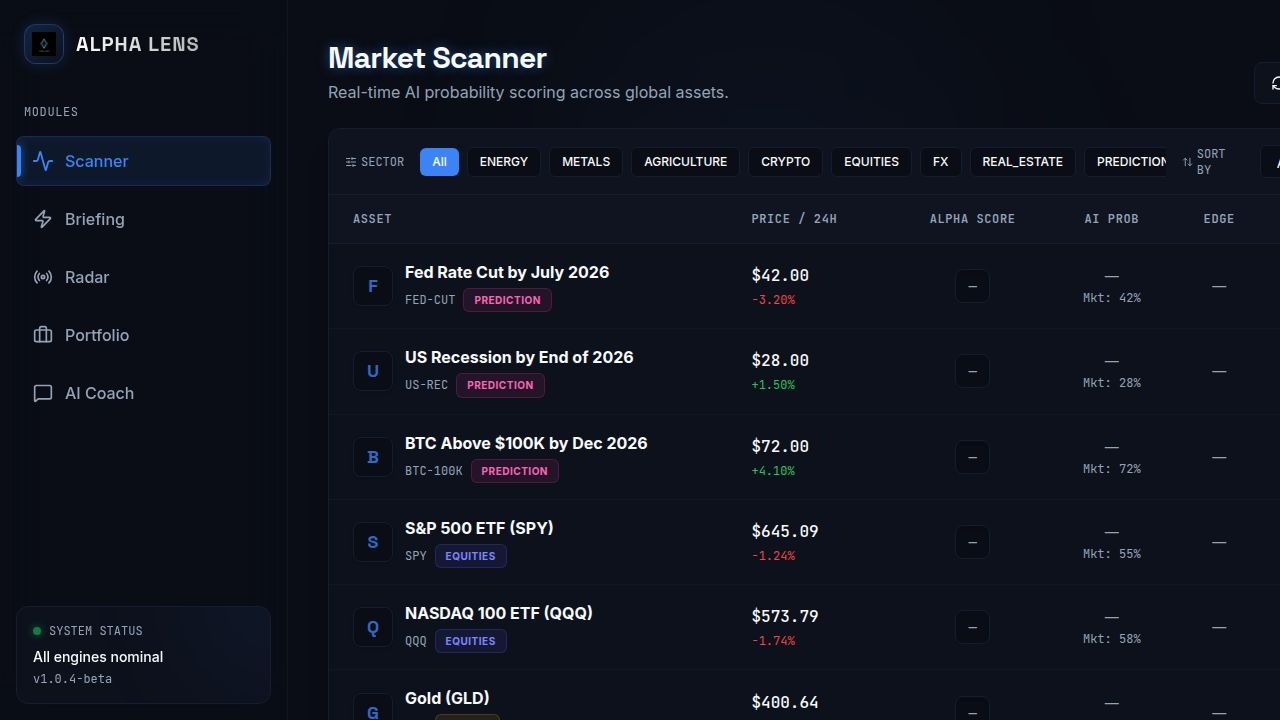
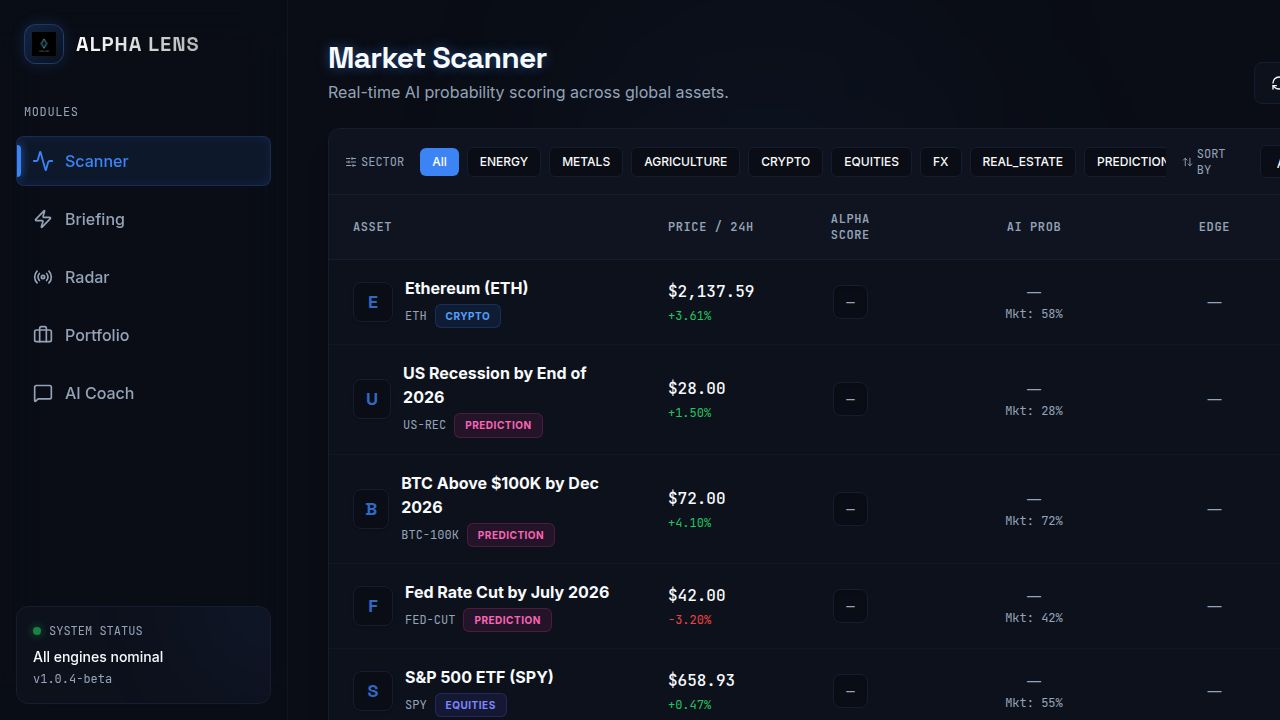
Update AI models and prediction market data integration
Integrates Kalshi API for prediction markets, updates Anthropic AI model to claude-sonnet-4-6, fixes price change calculations, resolves type mismatches, and adds missing query keys for TanStack Query.

Replit-Commit-Author: Agent
Replit-Commit-Session-Id: bd161243-a6b0-4cdc-86c1-edaa81847866
Replit-Commit-Checkpoint-Type: full_checkpoint
Replit-Commit-Event-Id: 30302449-2058-4dd6-bb6d-06fe2455cd04
Replit-Commit-Screenshot-Url: https://storage.googleapis.com/screenshot-production-us-central1/7b3f3a33-e8e6-45a8-a21e-6832dfb20a4a/bd161243-a6b0-4cdc-86c1-edaa81847866/Sz4FoIS
Replit-Helium-Checkpoint-Created: true

diff --git a/artifacts/api-server/src/services/market-data.ts b/artifacts/api-server/src/services/market-data.ts
@@ -75,7 +75,7 @@ async function fetchCryptoPrices(): Promise<Map<string, PriceUpdate>> {
 async function fetchYahooPrice(yahooSymbol: string): Promise<PriceUpdate | null> {
   try {
     const res = await fetchWithTimeout(
-      `${YAHOO_BASE}/${yahooSymbol}?interval=1d&range=2d`
+      `${YAHOO_BASE}/${yahooSymbol}?interval=1d&range=5d`
     );
 
     if (!res.ok) {
@@ -89,7 +89,18 @@ async function fetchYahooPrice(yahooSymbol: string): Promise<PriceUpdate | null>
 
     const meta = result.meta;
     const currentPrice = meta.regularMarketPrice;
-    const previousClose = meta.chartPreviousClose ?? meta.previousClose;
+
+    const closes: number[] = result.indicators?.quote?.[0]?.close?.filter(
+      (c: number | null) => c != null
+    ) ?? [];
+
+    let previousClose: number | undefined;
+    if (closes.length >= 2) {
+      previousClose = closes[closes.length - 2];
+    }
+    if (!previousClose) {
+      previousClose = meta.chartPreviousClose ?? meta.previousClose;
+    }
 
     if (!currentPrice || !previousClose) return null;
 
@@ -119,19 +130,101 @@ async function fetchStockPrices(): Promise<Map<string, PriceUpdate>> {
   return results;
 }
 
+const KALSHI_BASE = "https://api.elections.kalshi.com/trade-api/v2";
+
+const PREDICTION_MAP: Record<string, { series: string; pickMarket: (markets: any[]) => any | null }> = {
+  "FED-CUT": {
+    series: "KXFED",
+    pickMarket: (markets) => {
+      const now = new Date();
+      return markets
+        .filter((m: any) => m.status === "active" || m.status === "open")
+        .sort((a: any, b: any) => new Date(a.close_time).getTime() - new Date(b.close_time).getTime())
+        .find((m: any) => new Date(m.close_time) > now) ?? markets[0];
+    },
+  },
+  "US-REC": {
+    series: "KXNBERRECESSQ",
+    pickMarket: (markets) => {
+      return markets
+        .filter((m: any) => parseFloat(m.yes_bid_dollars ?? "0") > 0)
+        .sort((a: any, b: any) =>
+          parseFloat(b.yes_bid_dollars ?? "0") - parseFloat(a.yes_bid_dollars ?? "0")
+        )[0] ?? markets[markets.length - 1];
+    },
+  },
+  "BTC-100K": {
+    series: "KXBTCMAX100",
+    pickMarket: (markets) => {
+      const now = new Date();
+      return markets
+        .filter((m: any) => m.status === "active" || m.status === "open")
+        .sort((a: any, b: any) => new Date(a.close_time).getTime() - new Date(b.close_time).getTime())
+        .find((m: any) => new Date(m.close_time) > now) ?? markets[0];
+    },
+  },
+};
+
+async function fetchPredictionPrices(): Promise<Map<string, PriceUpdate>> {
+  const results = new Map<string, PriceUpdate>();
+
+  for (const [symbol, config] of Object.entries(PREDICTION_MAP)) {
+    try {
+      const res = await fetchWithTimeout(
+        `${KALSHI_BASE}/events?status=open&limit=1&with_nested_markets=true&series_ticker=${config.series}`
+      );
+      if (!res.ok) {
+        logger.warn({ status: res.status, symbol }, "Kalshi API error");
+        continue;
+      }
+      const data = await res.json() as any;
+      const event = data?.events?.[0];
+      if (!event?.markets?.length) {
+        logger.warn({ symbol, series: config.series }, "No Kalshi markets found");
+        continue;
+      }
+
+      const market = config.pickMarket(event.markets);
+      if (!market) continue;
+
+      const yesPrice = parseFloat(market.yes_bid_dollars ?? market.yes_ask_dollars ?? "0");
+      const currentPrice = Math.round(yesPrice * 10000) / 100;
+
+      const prevPrice = market.previous_price_dollars
+        ? Math.round(parseFloat(market.previous_price_dollars) * 10000) / 100
+        : currentPrice;
+
+      const change = prevPrice > 0
+        ? Math.round(((currentPrice - prevPrice) / prevPrice) * 10000) / 100
+        : 0;
+
+      results.set(symbol, { currentPrice, priceChange24h: change });
+      logger.info({ symbol, market: market.ticker, price: currentPrice }, "Fetched prediction price from Kalshi");
+    } catch (e: any) {
+      logger.error({ err: e.message, symbol }, "Failed to fetch prediction price");
+    }
+  }
+
+  return results;
+}
+
 export async function refreshAllMarketData(): Promise<number> {
   logger.info("Starting market data refresh...");
   let updated = 0;
 
-  const [cryptoPrices, stockPrices] = await Promise.all([
+  const [cryptoPrices, stockPrices, predictionPrices] = await Promise.all([
     fetchCryptoPrices(),
     fetchStockPrices(),
+    fetchPredictionPrices(),
   ]);
 
   const allAssets = await db.select().from(assetsTable);
 
   for (const asset of allAssets) {
-    const priceUpdate = cryptoPrices.get(asset.symbol) ?? stockPrices.get(asset.symbol);
+    const priceUpdate =
+      cryptoPrices.get(asset.symbol) ??
+      stockPrices.get(asset.symbol) ??
+      predictionPrices.get(asset.symbol);
 
     if (priceUpdate) {
       await db

diff --git a/lib/api-zod/src/index.ts b/lib/api-zod/src/index.ts
@@ -1,2 +1,80 @@
 export * from "./generated/api";
-export * from "./generated/types";
+export {
+  type AddToWatchlist200,
+  type ApprovePendingOrder200,
+  type BriefingResponse,
+  type CoachRequest,
+  type CoachResponse,
+  type ErrorResponse,
+  type EventsResponse,
+  type ExecuteTradeRequest,
+  type GetGlobalEventsParams,
+  type GetRadarAlertsParams,
+  type GetRadarHistoryParams,
+  type GetSignalsParams as GetSignalsParamsType,
+  type GetTradeHistoryParams,
+  type GlobalEvent,
+  type GlobalEventDirection,
+  type GlobalEventImpactLevel,
+  type HealthStatus,
+  type ListMarketsParams,
+  type ListMarketsSector,
+  type ListMarketsSort,
+  type LiveTradeItem,
+  type Market,
+  type MarketDetailResponse,
+  type MarketDirection,
+  type MarketListResponse,
+  type MarketRiskLevel,
+  type MarketSector,
+  type OpenTradeRequest,
+  type OpenTradeRequestDirection,
+  type PendingOrderItem,
+  type PendingOrdersResponse,
+  type PlatformAccountInfo,
+  type PortfolioResponse,
+  type PortfolioStatsResponse,
+  type RadarAlert,
+  type RadarAlertsResponse,
+  type RadarAllChainsResponse,
+  type RadarAllChainsResponseChains,
+  type RadarChainReaction,
+  type RadarChainsResponse,
+  type RadarHistoryResponse,
+  type RadarHistoryResponseBySeverity,
+  type RadarHistoryResponseByType,
+  type RadarPriceRow,
+  type RadarPricesResponse,
+  type RadarScanResponse,
+  type RadarStatusResponse,
+  type RadarStatusResponseSources,
+  type RadarThresholdsResponse,
+  type RadarThresholdsResponseThresholds,
+  type Recommendation,
+  type RecommendationType,
+  type RecommendationUrgency,
+  type RefreshResponse,
+  type RejectPendingOrder200,
+  type RoutingDecisionResponse,
+  type ScanResponse,
+  type ScoreResponse,
+  type ScoreResponseScoring,
+  type ScoreResponseScoringDirection,
+  type Signal,
+  type SignalDirection,
+  type SignalImpact,
+  type SignalListResponse,
+  type SignalType,
+  type Trade,
+  type TradeDirection,
+  type TradeHistoryResponse,
+  type TradeResponse,
+  type TradeResultResponse,
+  type TradeStatus,
+  type TradingAccountsResponse,
+  type TradingAccountsResponseAccounts,
+  type TradingPositionsResponse,
+  type WatchlistAddRequest,
+  type WatchlistItem,
+  type WatchlistResponse,
+} from "./generated/types";

diff --git a/artifacts/alpha-lens/src/pages/briefing.tsx b/artifacts/alpha-lens/src/pages/briefing.tsx
@@ -4,6 +4,9 @@ import {
   useTriggerScan,
   useGetGlobalEvents,
   useGetWatchlist,
+  getGetBriefingQueryKey,
+  getGetGlobalEventsQueryKey,
+  getGetWatchlistQueryKey,
 } from "@workspace/api-client-react";
 import type {
   Recommendation,
@@ -345,16 +348,16 @@ export default function Briefing() {
     isLoading,
     error,
   } = useGetBriefing({
-    query: { refetchInterval: 60000 },
+    query: { queryKey: getGetBriefingQueryKey(), refetchInterval: 60000 },
   });
 
   const { data: eventsData } = useGetGlobalEvents(
     { limit: 10 },
-    { query: { refetchInterval: 120000 } }
+    { query: { queryKey: getGetGlobalEventsQueryKey({ limit: 10 }), refetchInterval: 120000 } }
   );
 
   const { data: watchlistData } = useGetWatchlist({
-    query: { refetchInterval: 60000 },
+    query: { queryKey: getGetWatchlistQueryKey(), refetchInterval: 60000 },
   });
 
   const scanMutation = useTriggerScan({

diff --git a/artifacts/alpha-lens/src/pages/radar.tsx b/artifacts/alpha-lens/src/pages/radar.tsx
@@ -4,6 +4,8 @@ import {
   useGetRadarPrices,
   useGetRadarStatus,
   useTriggerRadarScan,
+  getGetRadarAlertsQueryKey,
+  getGetRadarPricesQueryKey,
 } from "@workspace/api-client-react";
 import type {
   RadarAlert,
@@ -201,10 +203,10 @@ export default function RadarPage() {
 
   const { data: alertsData, isLoading: alertsLoading } = useGetRadarAlerts(
     { hours: 8 },
-    { query: { refetchInterval: 5 * 60 * 1000 } },
+    { query: { queryKey: getGetRadarAlertsQueryKey({ hours: 8 }), refetchInterval: 5 * 60 * 1000 } },
   );
   const { data: pricesData, isLoading: pricesLoading } = useGetRadarPrices({
-    query: { refetchInterval: 5 * 60 * 1000 },
+    query: { queryKey: getGetRadarPricesQueryKey(), refetchInterval: 5 * 60 * 1000 },
   });
   const { data: statusData } = useGetRadarStatus();
 

diff --git a/artifacts/api-server/src/services/platform-router.ts b/artifacts/api-server/src/services/platform-router.ts
@@ -67,9 +67,9 @@ export interface RoutingDecision {
 }
 
 export function getBestPlatform(rec: {
-  title?: string;
-  assetClass?: string;
-  sector?: string;
+  title?: string | null;
+  assetClass?: string | null;
+  sector?: string | null;
 }): RoutingDecision {
   const title = (rec.title ?? "").toLowerCase();
   const assetClass = (rec.assetClass ?? "").toLowerCase();

diff --git a/artifacts/api-server/src/services/recommendations.ts b/artifacts/api-server/src/services/recommendations.ts
@@ -206,7 +206,7 @@ async function scanGlobalEvents(): Promise<RawEvent[]> {
     });
 
     const response = await anthropic.messages.create({
-      model: "claude-sonnet-4-20250514",
+      model: "claude-sonnet-4-6",
       max_tokens: 2000,
       system: EVENTS_PROMPT,
       messages: [
@@ -273,7 +273,7 @@ Identify the best trade calls and watches. Cross-reference assets with events an
 
   try {
     const response = await anthropic.messages.create({
-      model: "claude-sonnet-4-20250514",
+      model: "claude-sonnet-4-6",
       max_tokens: 3000,
       system: AGENT_SYSTEM_PROMPT,
       messages: [{ role: "user", content: prompt }],
@@ -308,7 +308,7 @@ async function generateBriefingSummary(
       .join("\n");
 
     const response = await anthropic.messages.create({
-      model: "claude-sonnet-4-20250514",
+      model: "claude-sonnet-4-6",
       max_tokens: 200,
       system: SUMMARY_PROMPT,
       messages: [

diff --git a/lib/integrations-anthropic-ai/src/batch/utils.ts b/lib/integrations-anthropic-ai/src/batch/utils.ts
@@ -1,5 +1,5 @@
 import pLimit from "p-limit";
-import pRetry from "p-retry";
+import pRetry, { AbortError } from "p-retry";
 
 /**
  * Batch Processing Utilities
@@ -75,7 +75,7 @@ export async function batchProcess<T, R>(
             if (isRateLimitError(error)) {
               throw error;
             }
-            throw new pRetry.AbortError(
+            throw new AbortError(
               error instanceof Error ? error : new Error(String(error))
             );
           }
@@ -115,7 +115,7 @@ export async function batchProcessWithSSE<T, R>(
           factor: 2,
           onFailedAttempt: (error) => {
             if (!isRateLimitError(error)) {
-              throw new pRetry.AbortError(
+              throw new AbortError(
                 error instanceof Error ? error : new Error(String(error))
               );
             }

diff --git a/artifacts/alpha-lens/src/pages/market-detail.tsx b/artifacts/alpha-lens/src/pages/market-detail.tsx
@@ -4,6 +4,7 @@ import {
   useGetMarket, 
   useScoreMarket, 
   useOpenTrade,
+  getGetMarketQueryKey,
   TradeDirection
 } from "@workspace/api-client-react";
 import { useQueryClient } from "@tanstack/react-query";
@@ -80,7 +81,7 @@ export default function MarketDetail() {
   const [tradeDirection, setTradeDirection] = useState<TradeDirection>("long");
 
   const { data, isLoading } = useGetMarket(id, {
-    query: { enabled: !!id }
+    query: { queryKey: getGetMarketQueryKey(id), enabled: !!id }
   });
 
   const scoreMutation = useScoreMarket({

diff --git a/artifacts/api-server/src/services/coach.ts b/artifacts/api-server/src/services/coach.ts
@@ -28,7 +28,7 @@ export async function getCoachAnalysis(input: CoachInput) {
 
   try {
     const response = await anthropic.messages.create({
-      model: "claude-sonnet-4-20250514",
+      model: "claude-sonnet-4-6",
       max_tokens: 1000,
       system: COACH_PROMPT,
       messages: [{ role: "user", content: prompt }],

diff --git a/artifacts/api-server/src/services/scoring.ts b/artifacts/api-server/src/services/scoring.ts
@@ -53,7 +53,7 @@ Provide your AI probability assessment, direction, and generate evidence signals
 
   try {
     const response = await anthropic.messages.create({
-      model: "claude-sonnet-4-20250514",
+      model: "claude-sonnet-4-6",
       max_tokens: 1500,
       system: SCORING_PROMPT,
       messages: [{ role: "user", content: prompt }],

diff --git a/replit.md b/replit.md
@@ -113,7 +113,7 @@ Every package extends `tsconfig.base.json` which sets `composite: true`. The roo
 
 ## AI Integration
 
-Uses `@workspace/integrations-anthropic-ai` which provides an Anthropic client pre-configured with Replit's AI Integrations proxy. No user API key needed — billed to Replit credits. Model: `claude-sonnet-4-20250514`.
+Uses `@workspace/integrations-anthropic-ai` which provides an Anthropic client pre-configured with Replit's AI Integrations proxy. No user API key needed — billed to Replit credits. Model: `claude-sonnet-4-6`.
 
 ## Seeding
 